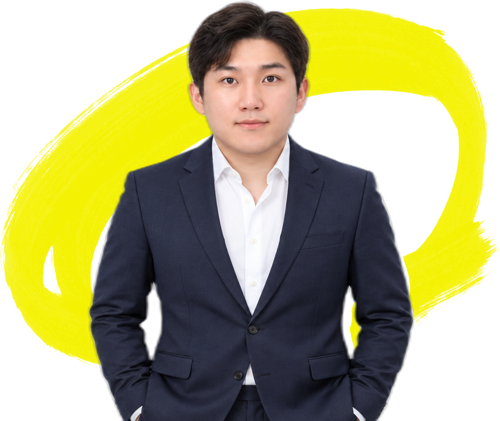
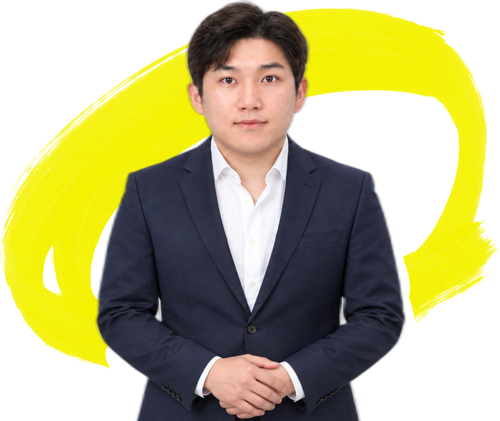
인물 컷아웃: 손을 앞으로 가지런히 모은 정장 사진, 아래 끝 사라짐 28px
Claude-Session: https://claude.ai/code/session_01AMh7xoXiuzDvjCLxYCuX6F

diff --git a/scripts/shortform/brush_stroke_cutout.py b/scripts/shortform/brush_stroke_cutout.py
@@ -4,7 +4,7 @@
 구성 — 원본을 그대로 쓴다
   - 칠: 노션 원본 PNG(public/assets/shortform/brush-stroke-cutout/, 수정 없음)에서 노랑 칠 픽셀만 떼어 씀(원본 인물은 버림). 색은 #F5F200으로 맞춤(원본도 거의 같은 노랑)
   - 인물: 딜러 상반신 사진을 누끼(rembg u2net_human_seg)해 원본 인물 자리(가운데·머리 위 끝·아래 끝)에 같은 크기로 놓음
-  - 끝 화면에서는 인물 아래 끝을 70px 부드럽게 사라지게 함(공중에 잘린 선이 보이지 않게)
+  - 끝 화면에서는 인물 아래 끝을 28px 부드럽게(손이 흐려지지 않게) 사라지게 함(공중에 잘린 선이 보이지 않게)
 출력
   OUT_badge.png  투명 바탕 1000×842(원본 크기)
   OUT_card.png   1080×1920 끝 화면 시안(배경 영상 장면 어둡게 + 배지 + 이름·소속)
@@ -74,7 +74,7 @@ def ease(t): t = max(0.0, min(1.0, t)); return 1 - (1 - t) ** 3
 def card(stroke, person, name, org, bg_img, t):
     f = Image.blend(bg_img, Image.new('RGB', bg_img.size, (0, 0, 0)), 0.55).convert('RGBA')
     # 인물이 먼저(0.15초 안에) 나타나고 칠이 뒤에서 그어짐 — 원본 칠은 원본 인물 뒤가 비어 있어, 인물 없이 칠만 보이면 구멍이 드러남
-    b = badge(stroke, person, reveal=ease((t - 0.2) / 0.6), rise=1 - ease(t / 0.4), appear=ease(t / 0.15), fade_bottom=70)
+    b = badge(stroke, person, reveal=ease((t - 0.2) / 0.6), rise=1 - ease(t / 0.4), appear=ease(t / 0.15), fade_bottom=28)
     f.alpha_composite(b, ((W - b.width) // 2, TOP))
     k = ease((t - 0.8) / 0.4)
     if k > 0:

diff --git a/reports/work-roma-spider.md b/reports/work-roma-spider.md
@@ -249,3 +249,4 @@ r12는 **86점 / 100점**(r11 79점에서 +7)이다. 숫자 위치, ✓ 목록, 
 ![배지](work-roma-spider/brush_cutout_badge.png) ![끝 화면](work-roma-spider/brush_cutout_card.png)
 
 ![움직임 0.1·0.4·0.7초](work-roma-spider/brush_cutout_anim.png)
+- 손(사용자 「손 단정하게」): 주머니에 넣은 손을 허리 앞에서 가지런히 모은 자세로 바꿈(같은 사진에서 손만 바꾸는 편집, 4장 중 1장, 약 433크레딧 × 4). 손이 흐려지지 않게 아래 끝 사라짐을 70px → 28px로 줄임.
